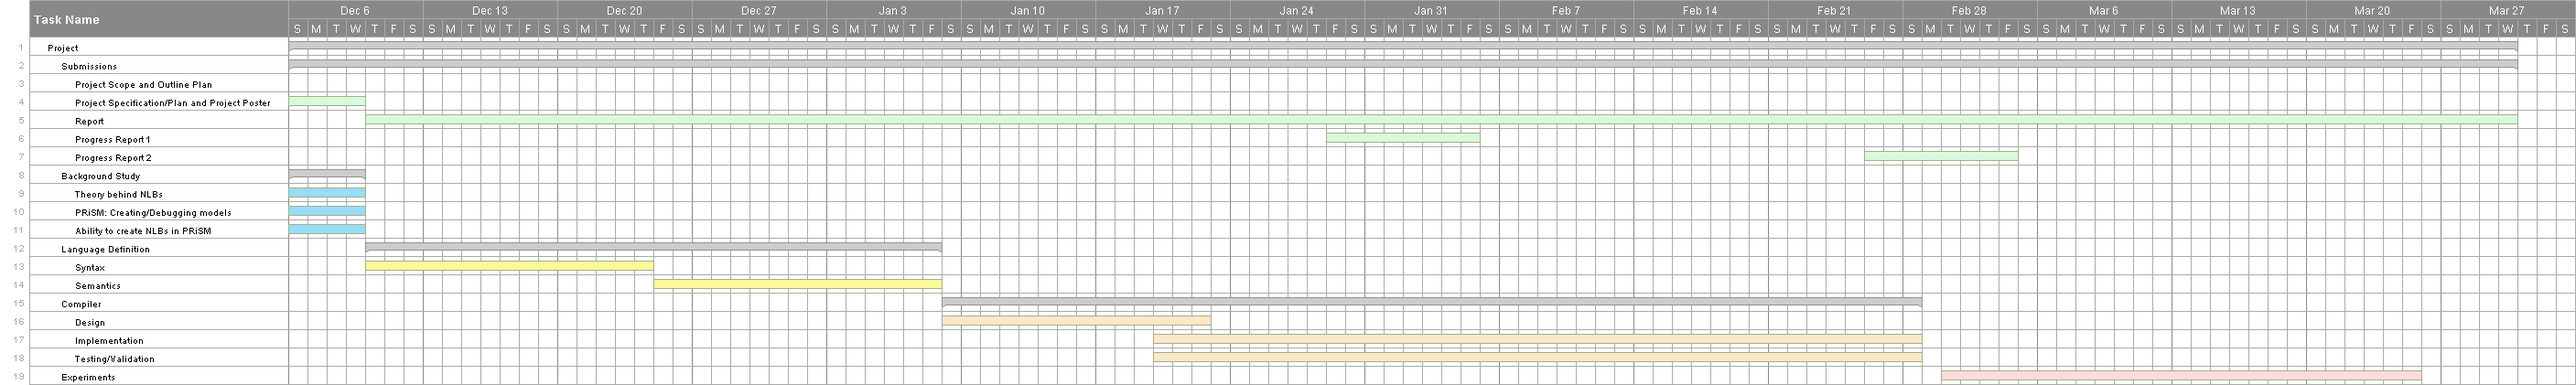
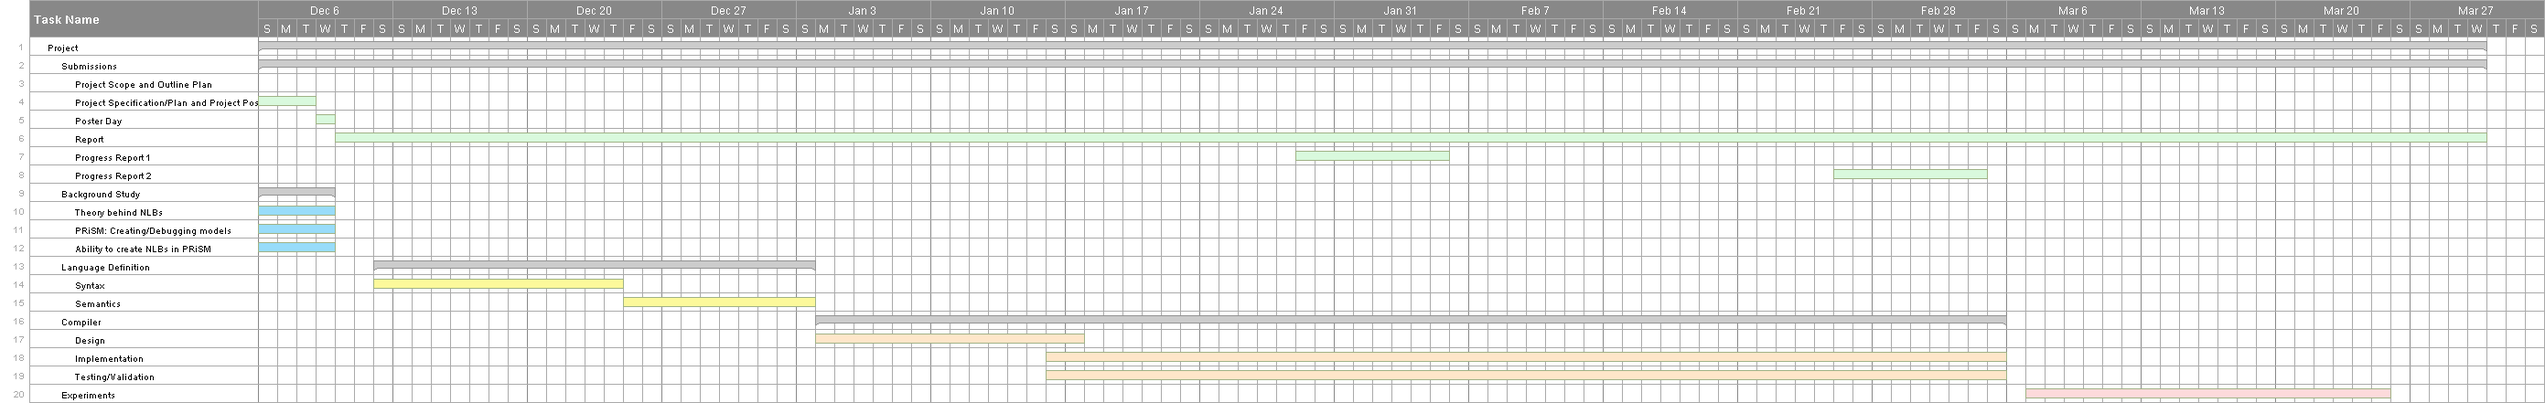
Fixed ordering of plan in document.

diff --git a/Documentation/project-specification-plan/project-specification-plan.tex b/Documentation/project-specification-plan/project-specification-plan.tex
@@ -245,15 +245,15 @@ complications arising in the future.
     \begin{tabular}{l | p{7.5cm}}
         Task & Estimated Completion\\
         \hline
-        Creating Q'Grady Language & 8th of January \\
+        Creating Q'Grady Language & 3rd of January \\
 
-        Designing the compiler & 22nd of January \\
+        Designing the compiler & 17th of January \\
 
         Progress Report 1 Due & 5th of February \\
 
-        Implement and test compiler & 28th of February \\
-
         Progress Report 2 Due & 4th of March \\
+
+        Develop compiler & 5th of March \\
 
         Experimentation & 25th of March \\
 
